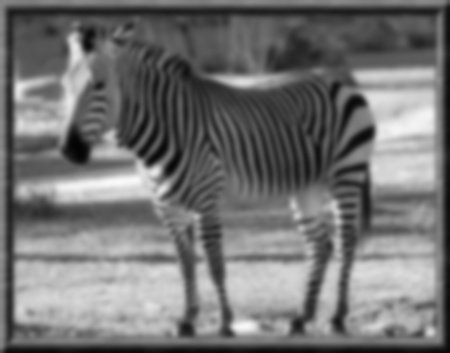
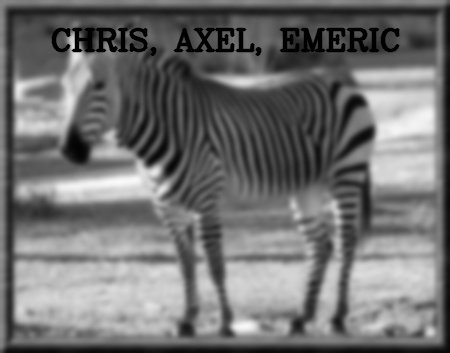
Story#12 - Ajout filtre zeTeam

Changed region(s): [[0.0933, 0.0623, 0.5911, 0.1558], [0.6222, 0.0623, 0.9022, 0.1558]]

diff --git a/functions.py b/functions.py
@@ -1,7 +1,7 @@
 import cv2
 import os
 from logger import log
-from filters import grayscale as g, blur as b, dilate as d
+from filters import grayscale as g, blur as b, dilate as d, filterZeTeam as z
 
 def application_filter(img_dest, new_dest, filters_list, log_file):
     """
@@ -54,6 +54,9 @@ def filter_number(img, filters_list, log_file):
         if filter["name"] == "dilate":
             new_image = d.dilate(new_image, filter["intensity"])
             log(f"Dilate => Conversion de l'image, application d'une dilatation de {filter['intensity']} sur l'image", log_file)
+        if filter["name"] == "message":
+            new_image = z.zeteam(new_image, filter["text"])
+            log(f"filterZeTeam => Conversion de l'image, application du texte {filter['text']} sur l'image", log_file)
     return new_image
 
 def next_arg_exist(i, args):
@@ -102,5 +105,9 @@ def config_filter(content, log_file):
             dilate_split = filter.split(":")
             intensity = int(dilate_split[1])
             filters_list.append({"name": dilate_split[0], "intensity": intensity})
+        if "message" in filter:
+            message = filter.split(":")
+            text = message[1]
+            filters_list.append({"name": message[0], "text": text})
 
     return filters_list

diff --git a/config.py b/config.py
@@ -2,7 +2,7 @@ from configparser import ConfigParser
 from functions import config_filter
 
 def get_config_file(conf_file):
-    f"""
+    """
     Récupère les configurations du fichier ini sous forme de dictionnaire enregistré dans un tableau
     :param conf_file: le nom du fichier où se trouve les configurations (file.ini)
     :return: un tableau de dictionnaire (array = ['{"key": "value"}'])

diff --git a/filters/filterZeTeam.py b/filters/filterZeTeam.py
@@ -1,0 +1,16 @@
+import cv2
+
+def zeteam(img, text):
+
+    # font
+    font = cv2.FONT_HERSHEY_COMPLEX
+    # org
+    org = (50, 50)
+    # fontScale
+    fontScale = 1
+    # Blue color in BGR
+    color = (0, 0, 255)
+    # Line thickness (px)
+    thickness = 2
+
+    return cv2.putText(img, text, org, font, fontScale, color, thickness, cv2.LINE_AA)
